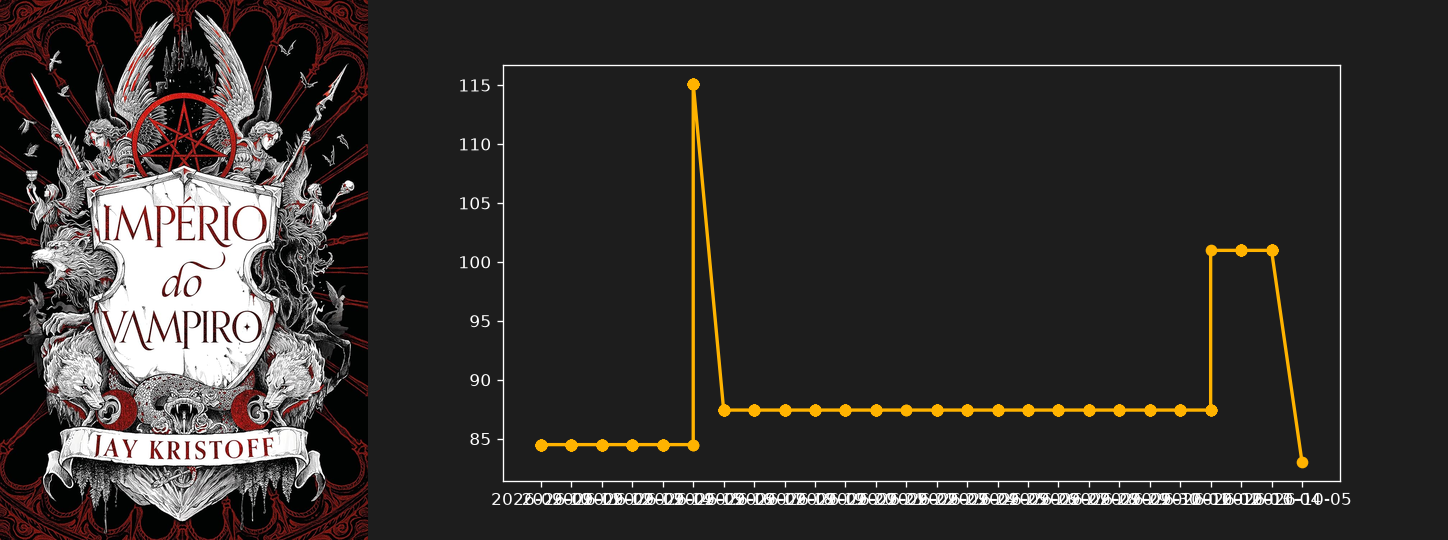
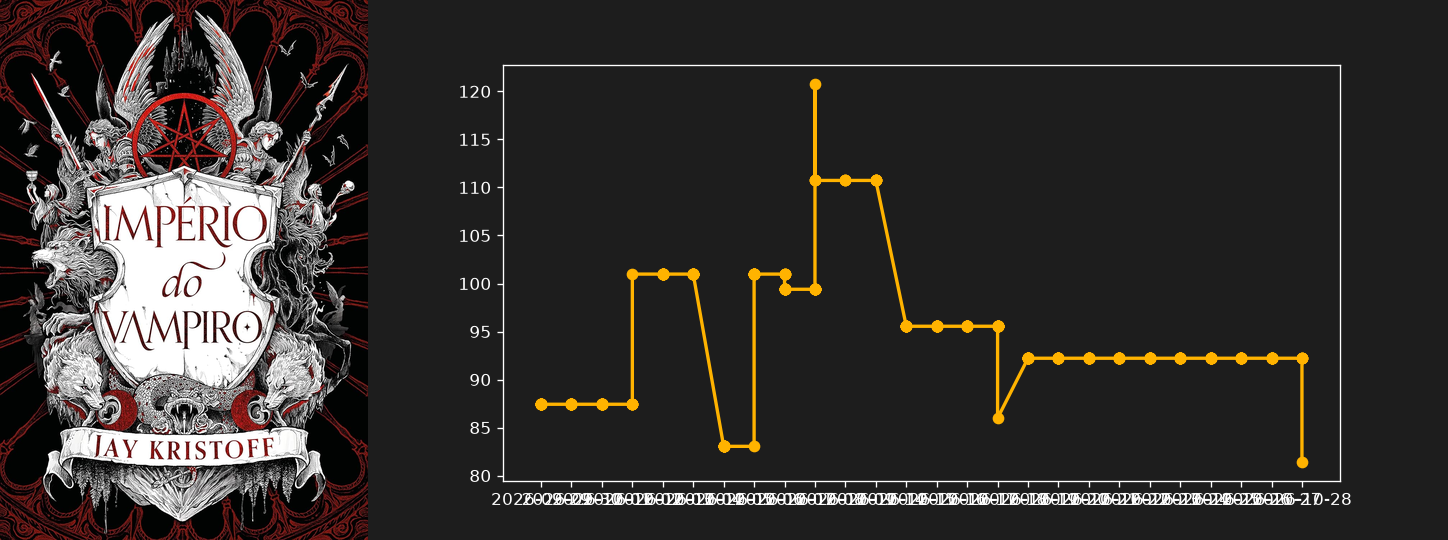
Atualizacao automatica: Novos precos e graficos

diff --git a/index.html b/index.html
@@ -48,7 +48,7 @@
             <div class="flex flex-col mt-auto mb-5">
                 <div class="flex items-baseline gap-2">
                     <span class="text-2xl font-bold text-white tracking-tight">R$ 223,92</span>
-                    <span class="text-sm text-gray-500 line-through">R$ 257,00</span>
+                    <span class="text-sm text-gray-500 line-through">R$ 256,92</span>
                 </div>
             </div>
             <a href="https://link.amazon/B0bxqDHXJ" target="_blank" rel="nofollow noopener" class="w-full flex items-center justify-center gap-2 py-2.5 rounded-xl bg-white/5 hover:bg-bardo-gold hover:text-bardo-dark text-sm font-bold text-gray-200 transition-all">Comprar na Amazon</a>
@@ -68,7 +68,7 @@
             <div class="flex flex-col mt-auto mb-5">
                 <div class="flex items-baseline gap-2">
                     <span class="text-2xl font-bold text-white tracking-tight">R$ 57,53</span>
-                    <span class="text-sm text-gray-500 line-through">R$ 60,02</span>
+                    <span class="text-sm text-gray-500 line-through">R$ 60,01</span>
                 </div>
             </div>
             <a href="https://link.amazon/B05C027gt" target="_blank" rel="nofollow noopener" class="w-full flex items-center justify-center gap-2 py-2.5 rounded-xl bg-white/5 hover:bg-bardo-gold hover:text-bardo-dark text-sm font-bold text-gray-200 transition-all">Comprar na Amazon</a>
@@ -108,7 +108,7 @@
             <div class="flex flex-col mt-auto mb-5">
                 <div class="flex items-baseline gap-2">
                     <span class="text-2xl font-bold text-white tracking-tight">R$ 43,14</span>
-                    <span class="text-sm text-gray-500 line-through">R$ 40,36</span>
+                    <span class="text-sm text-gray-500 line-through">R$ 40,37</span>
                 </div>
             </div>
             <a href="https://link.amazon/B0ahQKnZG" target="_blank" rel="nofollow noopener" class="w-full flex items-center justify-center gap-2 py-2.5 rounded-xl bg-white/5 hover:bg-bardo-gold hover:text-bardo-dark text-sm font-bold text-gray-200 transition-all">Comprar na Amazon</a>
@@ -148,7 +148,7 @@
             <div class="flex flex-col mt-auto mb-5">
                 <div class="flex items-baseline gap-2">
                     <span class="text-2xl font-bold text-white tracking-tight">R$ 118,35</span>
-                    <span class="text-sm text-gray-500 line-through">R$ 135,91</span>
+                    <span class="text-sm text-gray-500 line-through">R$ 135,86</span>
                 </div>
             </div>
             <a href="https://link.amazon/B04OFbHZF" target="_blank" rel="nofollow noopener" class="w-full flex items-center justify-center gap-2 py-2.5 rounded-xl bg-white/5 hover:bg-bardo-gold hover:text-bardo-dark text-sm font-bold text-gray-200 transition-all">Comprar na Amazon</a>
@@ -168,7 +168,7 @@
             <div class="flex flex-col mt-auto mb-5">
                 <div class="flex items-baseline gap-2">
                     <span class="text-2xl font-bold text-white tracking-tight">R$ 126,25</span>
-                    <span class="text-sm text-gray-500 line-through">R$ 121,10</span>
+                    <span class="text-sm text-gray-500 line-through">R$ 121,11</span>
                 </div>
             </div>
             <a href="https://link.amazon/B0bOFsgQ9" target="_blank" rel="nofollow noopener" class="w-full flex items-center justify-center gap-2 py-2.5 rounded-xl bg-white/5 hover:bg-bardo-gold hover:text-bardo-dark text-sm font-bold text-gray-200 transition-all">Comprar na Amazon</a>
@@ -228,7 +228,7 @@
             <div class="flex flex-col mt-auto mb-5">
                 <div class="flex items-baseline gap-2">
                     <span class="text-2xl font-bold text-white tracking-tight">R$ 79,24</span>
-                    <span class="text-sm text-gray-500 line-through">R$ 77,01</span>
+                    <span class="text-sm text-gray-500 line-through">R$ 77,02</span>
                 </div>
             </div>
             <a href="https://link.amazon/B01CIGwaZ" target="_blank" rel="nofollow noopener" class="w-full flex items-center justify-center gap-2 py-2.5 rounded-xl bg-white/5 hover:bg-bardo-gold hover:text-bardo-dark text-sm font-bold text-gray-200 transition-all">Comprar na Amazon</a>
@@ -248,7 +248,7 @@
             <div class="flex flex-col mt-auto mb-5">
                 <div class="flex items-baseline gap-2">
                     <span class="text-2xl font-bold text-white tracking-tight">R$ 414,48</span>
-                    <span class="text-sm text-gray-500 line-through">R$ 399,33</span>
+                    <span class="text-sm text-gray-500 line-through">R$ 399,36</span>
                 </div>
             </div>
             <a href="https://link.amazon/B0czAwuOp" target="_blank" rel="nofollow noopener" class="w-full flex items-center justify-center gap-2 py-2.5 rounded-xl bg-white/5 hover:bg-bardo-gold hover:text-bardo-dark text-sm font-bold text-gray-200 transition-all">Comprar na Amazon</a>
@@ -288,7 +288,7 @@
             <div class="flex flex-col mt-auto mb-5">
                 <div class="flex items-baseline gap-2">
                     <span class="text-2xl font-bold text-white tracking-tight">R$ 53,15</span>
-                    <span class="text-sm text-gray-500 line-through">R$ 74,71</span>
+                    <span class="text-sm text-gray-500 line-through">R$ 74,66</span>
                 </div>
             </div>
             <a href="https://link.amazon/B0bJ5jTSU" target="_blank" rel="nofollow noopener" class="w-full flex items-center justify-center gap-2 py-2.5 rounded-xl bg-white/5 hover:bg-bardo-gold hover:text-bardo-dark text-sm font-bold text-gray-200 transition-all">Comprar na Amazon</a>
@@ -308,7 +308,7 @@
             <div class="flex flex-col mt-auto mb-5">
                 <div class="flex items-baseline gap-2">
                     <span class="text-2xl font-bold text-white tracking-tight">R$ 55,07</span>
-                    <span class="text-sm text-gray-500 line-through">R$ 53,55</span>
+                    <span class="text-sm text-gray-500 line-through">R$ 53,56</span>
                 </div>
             </div>
             <a href="https://link.amazon/B075ASsRo" target="_blank" rel="nofollow noopener" class="w-full flex items-center justify-center gap-2 py-2.5 rounded-xl bg-white/5 hover:bg-bardo-gold hover:text-bardo-dark text-sm font-bold text-gray-200 transition-all">Comprar na Amazon</a>
@@ -328,7 +328,7 @@
             <div class="flex flex-col mt-auto mb-5">
                 <div class="flex items-baseline gap-2">
                     <span class="text-2xl font-bold text-white tracking-tight">R$ 54,98</span>
-                    <span class="text-sm text-gray-500 line-through">R$ 57,89</span>
+                    <span class="text-sm text-gray-500 line-through">R$ 57,88</span>
                 </div>
             </div>
             <a href="https://link.amazon/B05s4V4tS" target="_blank" rel="nofollow noopener" class="w-full flex items-center justify-center gap-2 py-2.5 rounded-xl bg-white/5 hover:bg-bardo-gold hover:text-bardo-dark text-sm font-bold text-gray-200 transition-all">Comprar na Amazon</a>
@@ -368,7 +368,7 @@
             <div class="flex flex-col mt-auto mb-5">
                 <div class="flex items-baseline gap-2">
                     <span class="text-2xl font-bold text-white tracking-tight">R$ 98,10</span>
-                    <span class="text-sm text-gray-500 line-through">R$ 106,78</span>
+                    <span class="text-sm text-gray-500 line-through">R$ 106,76</span>
                 </div>
             </div>
             <a href="https://link.amazon/B0g8PJdyP" target="_blank" rel="nofollow noopener" class="w-full flex items-center justify-center gap-2 py-2.5 rounded-xl bg-white/5 hover:bg-bardo-gold hover:text-bardo-dark text-sm font-bold text-gray-200 transition-all">Comprar na Amazon</a>
@@ -408,7 +408,7 @@
             <div class="flex flex-col mt-auto mb-5">
                 <div class="flex items-baseline gap-2">
                     <span class="text-2xl font-bold text-white tracking-tight">R$ 109,80</span>
-                    <span class="text-sm text-gray-500 line-through">R$ 122,25</span>
+                    <span class="text-sm text-gray-500 line-through">R$ 122,22</span>
                 </div>
             </div>
             <a href="https://link.amazon/B0cBFS3o1" target="_blank" rel="nofollow noopener" class="w-full flex items-center justify-center gap-2 py-2.5 rounded-xl bg-white/5 hover:bg-bardo-gold hover:text-bardo-dark text-sm font-bold text-gray-200 transition-all">Comprar na Amazon</a>
@@ -428,7 +428,7 @@
             <div class="flex flex-col mt-auto mb-5">
                 <div class="flex items-baseline gap-2">
                     <span class="text-2xl font-bold text-white tracking-tight">R$ 148,29</span>
-                    <span class="text-sm text-gray-500 line-through">R$ 144,72</span>
+                    <span class="text-sm text-gray-500 line-through">R$ 144,73</span>
                 </div>
             </div>
             <a href="https://link.amazon/B0f81O992" target="_blank" rel="nofollow noopener" class="w-full flex items-center justify-center gap-2 py-2.5 rounded-xl bg-white/5 hover:bg-bardo-gold hover:text-bardo-dark text-sm font-bold text-gray-200 transition-all">Comprar na Amazon</a>
@@ -488,7 +488,7 @@
             <div class="flex flex-col mt-auto mb-5">
                 <div class="flex items-baseline gap-2">
                     <span class="text-2xl font-bold text-white tracking-tight">R$ 39,80</span>
-                    <span class="text-sm text-gray-500 line-through">R$ 35,81</span>
+                    <span class="text-sm text-gray-500 line-through">R$ 35,82</span>
                 </div>
             </div>
             <a href="https://link.amazon/B0eRR4Vm5" target="_blank" rel="nofollow noopener" class="w-full flex items-center justify-center gap-2 py-2.5 rounded-xl bg-white/5 hover:bg-bardo-gold hover:text-bardo-dark text-sm font-bold text-gray-200 transition-all">Comprar na Amazon</a>
@@ -508,7 +508,7 @@
             <div class="flex flex-col mt-auto mb-5">
                 <div class="flex items-baseline gap-2">
                     <span class="text-2xl font-bold text-white tracking-tight">R$ 70,85</span>
-                    <span class="text-sm text-gray-500 line-through">R$ 73,81</span>
+                    <span class="text-sm text-gray-500 line-through">R$ 73,80</span>
                 </div>
             </div>
             <a href="https://link.amazon/B0aqYDLFU" target="_blank" rel="nofollow noopener" class="w-full flex items-center justify-center gap-2 py-2.5 rounded-xl bg-white/5 hover:bg-bardo-gold hover:text-bardo-dark text-sm font-bold text-gray-200 transition-all">Comprar na Amazon</a>
@@ -528,7 +528,7 @@
             <div class="flex flex-col mt-auto mb-5">
                 <div class="flex items-baseline gap-2">
                     <span class="text-2xl font-bold text-white tracking-tight">R$ 152,87</span>
-                    <span class="text-sm text-gray-500 line-through">R$ 154,22</span>
+                    <span class="text-sm text-gray-500 line-through">R$ 154,21</span>
                 </div>
             </div>
             <a href="https://link.amazon/B01Lo4CLZ" target="_blank" rel="nofollow noopener" class="w-full flex items-center justify-center gap-2 py-2.5 rounded-xl bg-white/5 hover:bg-bardo-gold hover:text-bardo-dark text-sm font-bold text-gray-200 transition-all">Comprar na Amazon</a>
@@ -548,7 +548,7 @@
             <div class="flex flex-col mt-auto mb-5">
                 <div class="flex items-baseline gap-2">
                     <span class="text-2xl font-bold text-white tracking-tight">R$ 76,62</span>
-                    <span class="text-sm text-gray-500 line-through">R$ 82,72</span>
+                    <span class="text-sm text-gray-500 line-through">R$ 82,71</span>
                 </div>
             </div>
             <a href="https://link.amazon/B0fHxeIhM" target="_blank" rel="nofollow noopener" class="w-full flex items-center justify-center gap-2 py-2.5 rounded-xl bg-white/5 hover:bg-bardo-gold hover:text-bardo-dark text-sm font-bold text-gray-200 transition-all">Comprar na Amazon</a>
@@ -568,7 +568,7 @@
             <div class="flex flex-col mt-auto mb-5">
                 <div class="flex items-baseline gap-2">
                     <span class="text-2xl font-bold text-white tracking-tight">R$ 67,78</span>
-                    <span class="text-sm text-gray-500 line-through">R$ 74,73</span>
+                    <span class="text-sm text-gray-500 line-through">R$ 74,71</span>
                 </div>
             </div>
             <a href="https://link.amazon/B09kGQop8" target="_blank" rel="nofollow noopener" class="w-full flex items-center justify-center gap-2 py-2.5 rounded-xl bg-white/5 hover:bg-bardo-gold hover:text-bardo-dark text-sm font-bold text-gray-200 transition-all">Comprar na Amazon</a>
@@ -588,7 +588,7 @@
             <div class="flex flex-col mt-auto mb-5">
                 <div class="flex items-baseline gap-2">
                     <span class="text-2xl font-bold text-white tracking-tight">R$ 285,85</span>
-                    <span class="text-sm text-gray-500 line-through">R$ 253,89</span>
+                    <span class="text-sm text-gray-500 line-through">R$ 253,96</span>
                 </div>
             </div>
             <a href="https://link.amazon/B046QvncM" target="_blank" rel="nofollow noopener" class="w-full flex items-center justify-center gap-2 py-2.5 rounded-xl bg-white/5 hover:bg-bardo-gold hover:text-bardo-dark text-sm font-bold text-gray-200 transition-all">Comprar na Amazon</a>
@@ -608,7 +608,7 @@
             <div class="flex flex-col mt-auto mb-5">
                 <div class="flex items-baseline gap-2">
                     <span class="text-2xl font-bold text-white tracking-tight">R$ 189,91</span>
-                    <span class="text-sm text-gray-500 line-through">R$ 182,01</span>
+                    <span class="text-sm text-gray-500 line-through">R$ 182,03</span>
                 </div>
             </div>
             <a href="https://link.amazon/B037mPoB1" target="_blank" rel="nofollow noopener" class="w-full flex items-center justify-center gap-2 py-2.5 rounded-xl bg-white/5 hover:bg-bardo-gold hover:text-bardo-dark text-sm font-bold text-gray-200 transition-all">Comprar na Amazon</a>
@@ -628,7 +628,7 @@
             <div class="flex flex-col mt-auto mb-5">
                 <div class="flex items-baseline gap-2">
                     <span class="text-2xl font-bold text-white tracking-tight">R$ 44,00</span>
-                    <span class="text-sm text-gray-500 line-through">R$ 41,09</span>
+                    <span class="text-sm text-gray-500 line-through">R$ 41,10</span>
                 </div>
             </div>
             <a href="https://link.amazon/B0ja4Ste6" target="_blank" rel="nofollow noopener" class="w-full flex items-center justify-center gap-2 py-2.5 rounded-xl bg-white/5 hover:bg-bardo-gold hover:text-bardo-dark text-sm font-bold text-gray-200 transition-all">Comprar na Amazon</a>
@@ -648,7 +648,7 @@
             <div class="flex flex-col mt-auto mb-5">
                 <div class="flex items-baseline gap-2">
                     <span class="text-2xl font-bold text-white tracking-tight">R$ 51,88</span>
-                    <span class="text-sm text-gray-500 line-through">R$ 54,97</span>
+                    <span class="text-sm text-gray-500 line-through">R$ 54,96</span>
                 </div>
             </div>
             <a href="https://link.amazon/B0cIs9iDO" target="_blank" rel="nofollow noopener" class="w-full flex items-center justify-center gap-2 py-2.5 rounded-xl bg-white/5 hover:bg-bardo-gold hover:text-bardo-dark text-sm font-bold text-gray-200 transition-all">Comprar na Amazon</a>
@@ -668,7 +668,7 @@
             <div class="flex flex-col mt-auto mb-5">
                 <div class="flex items-baseline gap-2">
                     <span class="text-2xl font-bold text-white tracking-tight">R$ 42,71</span>
-                    <span class="text-sm text-gray-500 line-through">R$ 53,92</span>
+                    <span class="text-sm text-gray-500 line-through">R$ 53,89</span>
                 </div>
             </div>
             <a href="https://link.amazon/B0gViTEpL" target="_blank" rel="nofollow noopener" class="w-full flex items-center justify-center gap-2 py-2.5 rounded-xl bg-white/5 hover:bg-bardo-gold hover:text-bardo-dark text-sm font-bold text-gray-200 transition-all">Comprar na Amazon</a>
@@ -728,7 +728,7 @@
             <div class="flex flex-col mt-auto mb-5">
                 <div class="flex items-baseline gap-2">
                     <span class="text-2xl font-bold text-white tracking-tight">R$ 71,60</span>
-                    <span class="text-sm text-gray-500 line-through">R$ 68,76</span>
+                    <span class="text-sm text-gray-500 line-through">R$ 68,77</span>
                 </div>
             </div>
             <a href="https://link.amazon/B0gpt2mie" target="_blank" rel="nofollow noopener" class="w-full flex items-center justify-center gap-2 py-2.5 rounded-xl bg-white/5 hover:bg-bardo-gold hover:text-bardo-dark text-sm font-bold text-gray-200 transition-all">Comprar na Amazon</a>
@@ -788,7 +788,7 @@
             <div class="flex flex-col mt-auto mb-5">
                 <div class="flex items-baseline gap-2">
                     <span class="text-2xl font-bold text-white tracking-tight">R$ 29,84</span>
-                    <span class="text-sm text-gray-500 line-through">R$ 39,47</span>
+                    <span class="text-sm text-gray-500 line-through">R$ 39,45</span>
                 </div>
             </div>
             <a href="https://link.amazon/B0aKkKOM2" target="_blank" rel="nofollow noopener" class="w-full flex items-center justify-center gap-2 py-2.5 rounded-xl bg-white/5 hover:bg-bardo-gold hover:text-bardo-dark text-sm font-bold text-gray-200 transition-all">Comprar na Amazon</a>
@@ -808,7 +808,7 @@
             <div class="flex flex-col mt-auto mb-5">
                 <div class="flex items-baseline gap-2">
                     <span class="text-2xl font-bold text-white tracking-tight">R$ 129,03</span>
-                    <span class="text-sm text-gray-500 line-through">R$ 139,58</span>
+                    <span class="text-sm text-gray-500 line-through">R$ 139,56</span>
                 </div>
             </div>
             <a href="https://link.amazon/B02R68ory" target="_blank" rel="nofollow noopener" class="w-full flex items-center justify-center gap-2 py-2.5 rounded-xl bg-white/5 hover:bg-bardo-gold hover:text-bardo-dark text-sm font-bold text-gray-200 transition-all">Comprar na Amazon</a>
@@ -848,7 +848,7 @@
             <div class="flex flex-col mt-auto mb-5">
                 <div class="flex items-baseline gap-2">
                     <span class="text-2xl font-bold text-white tracking-tight">R$ 496,29</span>
-                    <span class="text-sm text-gray-500 line-through">R$ 479,52</span>
+                    <span class="text-sm text-gray-500 line-through">R$ 479,56</span>
                 </div>
             </div>
             <a href="https://link.amazon/B04zvHdbV" target="_blank" rel="nofollow noopener" class="w-full flex items-center justify-center gap-2 py-2.5 rounded-xl bg-white/5 hover:bg-bardo-gold hover:text-bardo-dark text-sm font-bold text-gray-200 transition-all">Comprar na Amazon</a>
@@ -867,8 +867,8 @@
             <h3 class="text-base font-semibold text-gray-100 leading-snug line-clamp-2 mb-4 group-hover:text-bardo-gold transition-colors">O Império do Vampiro</h3>
             <div class="flex flex-col mt-auto mb-5">
                 <div class="flex items-baseline gap-2">
-                    <span class="text-2xl font-bold text-white tracking-tight">R$ 92,22</span>
-                    <span class="text-sm text-gray-500 line-through">R$ 93,86</span>
+                    <span class="text-2xl font-bold text-white tracking-tight">R$ 81,45</span>
+                    <span class="text-sm text-gray-500 line-through">R$ 93,84</span>
                 </div>
             </div>
             <a href="https://link.amazon/B0fzjvtp7" target="_blank" rel="nofollow noopener" class="w-full flex items-center justify-center gap-2 py-2.5 rounded-xl bg-white/5 hover:bg-bardo-gold hover:text-bardo-dark text-sm font-bold text-gray-200 transition-all">Comprar na Amazon</a>
@@ -908,7 +908,7 @@
             <div class="flex flex-col mt-auto mb-5">
                 <div class="flex items-baseline gap-2">
                     <span class="text-2xl font-bold text-white tracking-tight">R$ 60,07</span>
-                    <span class="text-sm text-gray-500 line-through">R$ 63,63</span>
+                    <span class="text-sm text-gray-500 line-through">R$ 63,62</span>
                 </div>
             </div>
             <a href="https://link.amazon/B0dQomOl4" target="_blank" rel="nofollow noopener" class="w-full flex items-center justify-center gap-2 py-2.5 rounded-xl bg-white/5 hover:bg-bardo-gold hover:text-bardo-dark text-sm font-bold text-gray-200 transition-all">Comprar na Amazon</a>
@@ -948,7 +948,7 @@
             <div class="flex flex-col mt-auto mb-5">
                 <div class="flex items-baseline gap-2">
                     <span class="text-2xl font-bold text-white tracking-tight">R$ 160,31</span>
-                    <span class="text-sm text-gray-500 line-through">R$ 152,21</span>
+                    <span class="text-sm text-gray-500 line-through">R$ 152,23</span>
                 </div>
             </div>
             <a href="https://link.amazon/B0fmYiyYt" target="_blank" rel="nofollow noopener" class="w-full flex items-center justify-center gap-2 py-2.5 rounded-xl bg-white/5 hover:bg-bardo-gold hover:text-bardo-dark text-sm font-bold text-gray-200 transition-all">Comprar na Amazon</a>
@@ -968,7 +968,7 @@
             <div class="flex flex-col mt-auto mb-5">
                 <div class="flex items-baseline gap-2">
                     <span class="text-2xl font-bold text-white tracking-tight">R$ 212,70</span>
-                    <span class="text-sm text-gray-500 line-through">R$ 210,20</span>
+                    <span class="text-sm text-gray-500 line-through">R$ 210,21</span>
                 </div>
             </div>
             <a href="https://link.amazon/B00nzuqe1" target="_blank" rel="nofollow noopener" class="w-full flex items-center justify-center gap-2 py-2.5 rounded-xl bg-white/5 hover:bg-bardo-gold hover:text-bardo-dark text-sm font-bold text-gray-200 transition-all">Comprar na Amazon</a>
@@ -988,7 +988,7 @@
             <div class="flex flex-col mt-auto mb-5">
                 <div class="flex items-baseline gap-2">
                     <span class="text-2xl font-bold text-white tracking-tight">R$ 390,99</span>
-                    <span class="text-sm text-gray-500 line-through">R$ 324,94</span>
+                    <span class="text-sm text-gray-500 line-through">R$ 325,09</span>
                 </div>
             </div>
             <a href="https://link.amazon/B02mXXqIa" target="_blank" rel="nofollow noopener" class="w-full flex items-center justify-center gap-2 py-2.5 rounded-xl bg-white/5 hover:bg-bardo-gold hover:text-bardo-dark text-sm font-bold text-gray-200 transition-all">Comprar na Amazon</a>
